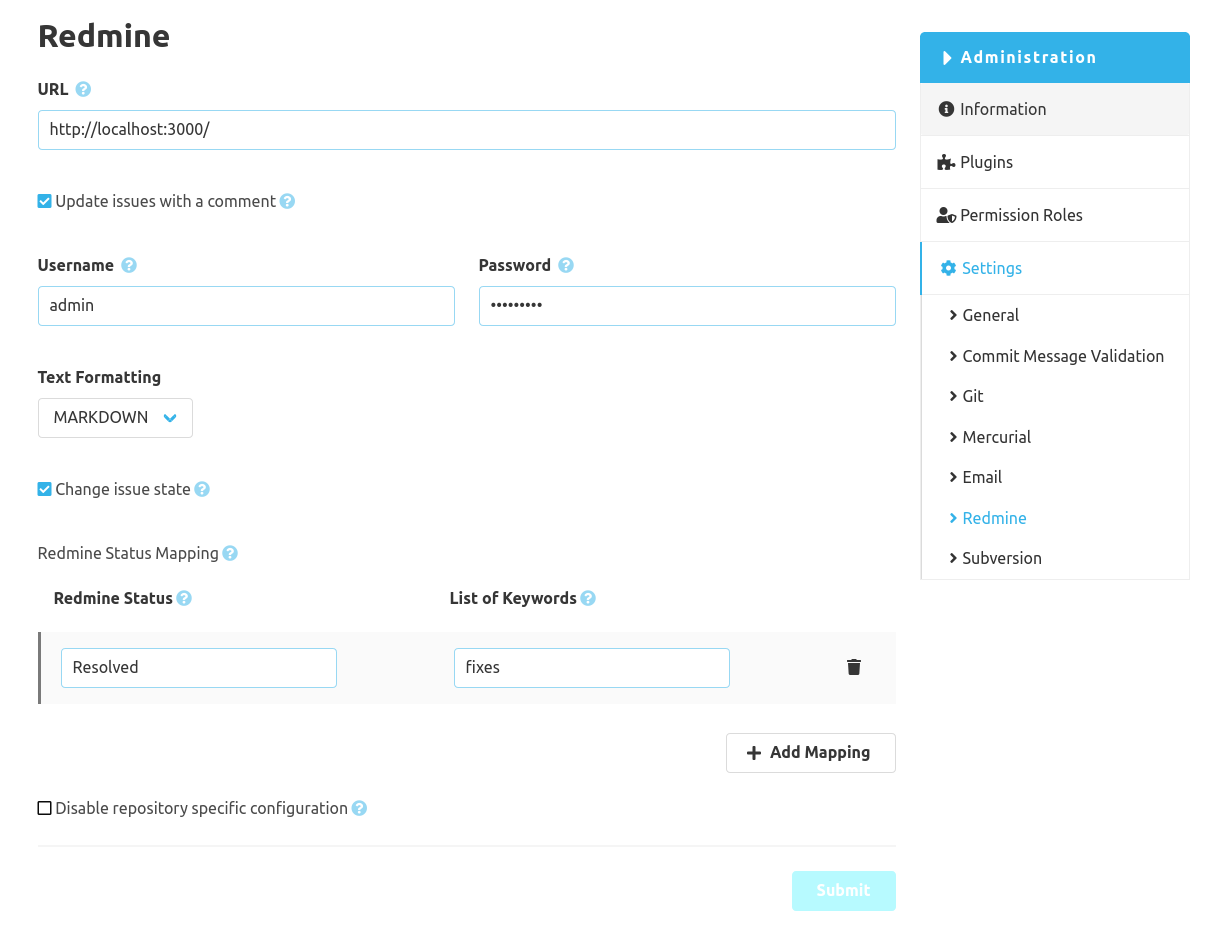
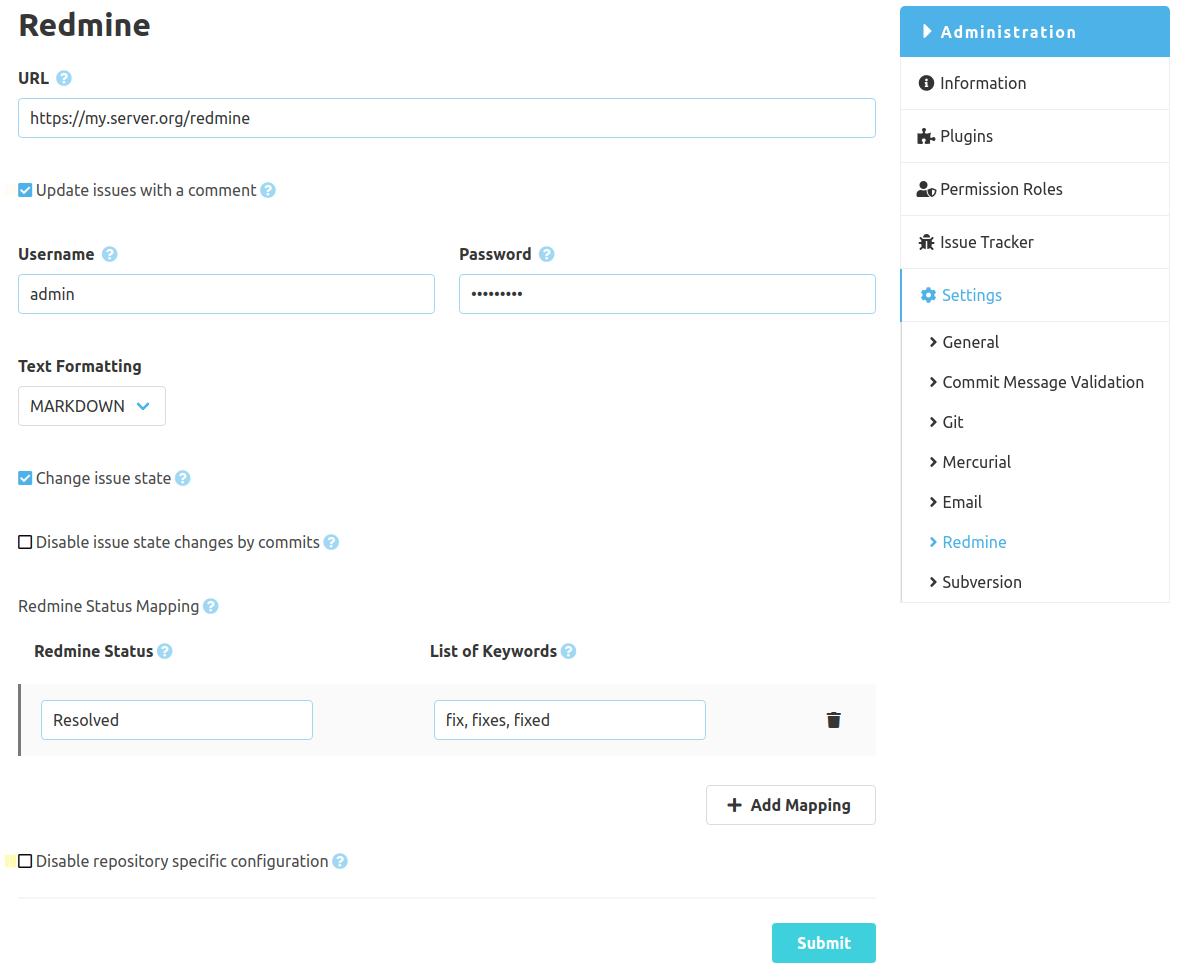
Add option to disable state change by commit (#40)
Adds the option to disable state changes that would be triggered by commits. This option should be used, when the development process uses pull requests, so that the state of issues will not be changed by commits on feature branches but only when a corresponding pull request is merged.

diff --git a/src/main/js/RedmineRepositoryConfigurationForm.tsx b/src/main/js/RedmineRepositoryConfigurationForm.tsx
@@ -72,6 +72,7 @@ class RedmineRepositoryConfigurationForm extends React.Component<Props, RedmineC
             <div className="column is-half">{this.renderInputField("password", "password")}</div>
             <div className="column is-full">{this.renderTextFormattingDropDown()}</div>
             <div className="column is-full">{this.renderCheckbox("autoClose")}</div>
+            <div className="column is-full">{this.renderCheckbox("disableStateChangeByCommit")}</div>
             {this.state.autoClose ? (
               <div className="column is-full">
                 <KeyWordMapping mappings={this.state.keywordMapping} onChange={this.keywordMappingChanged} />

diff --git a/src/main/java/sonia/scm/redmine/config/RedmineGlobalConfiguration.java b/src/main/java/sonia/scm/redmine/config/RedmineGlobalConfiguration.java
@@ -46,7 +46,12 @@ public class RedmineGlobalConfiguration extends RedmineConfiguration {
 
   public RedmineGlobalConfiguration(String url, TextFormatting textFormatting, boolean autoClose, boolean updateIssues,
                                     boolean disableRepositoryConfiguration, String username, String password) {
-    super(url, textFormatting, autoClose, updateIssues, username, password, Collections.emptyMap());
+    this(url, textFormatting, autoClose, updateIssues, disableRepositoryConfiguration, username, password, false);
+  }
+
+  public RedmineGlobalConfiguration(String url, TextFormatting textFormatting, boolean autoClose, boolean updateIssues,
+                                    boolean disableRepositoryConfiguration, String username, String password, boolean disableStateChangeByCommit) {
+    super(url, textFormatting, autoClose, updateIssues, username, password, Collections.emptyMap(), disableStateChangeByCommit);
     this.disableRepositoryConfiguration = disableRepositoryConfiguration;
   }
 

diff --git a/src/main/java/sonia/scm/redmine/RedmineStateChanger.java b/src/main/java/sonia/scm/redmine/RedmineStateChanger.java
@@ -62,6 +62,11 @@ public class RedmineStateChanger implements StateChanger {
       .collect(Collectors.toList());
   }
 
+  @Override
+  public boolean isStateChangeActivatedForCommits() {
+    return !configuration.isDisableStateChangeByCommit();
+  }
+
   private String resolveMapping(String keyWord) {
     for (Map.Entry<String, String> entry : configuration.getKeywordMapping().entrySet()) {
       List<String> values = split().splitToList(entry.getValue());

diff --git a/src/test/java/sonia/scm/redmine/RedmineStateChangerTest.java b/src/test/java/sonia/scm/redmine/RedmineStateChangerTest.java
@@ -113,4 +113,15 @@ class RedmineStateChangerTest {
     verify(apiService).updateIssue(issue);
   }
 
+  @Test
+  void shouldDisableUpdatesByCommits() {
+    configuration.setDisableStateChangeByCommit(true);
+
+    assertThat(stateChanger.isStateChangeActivatedForCommits()).isFalse();
+  }
+
+  @Test
+  void shouldEnableUpdatesByCommitsByDefault() {
+    assertThat(stateChanger.isStateChangeActivatedForCommits()).isTrue();
+  }
 }

diff --git a/src/test/java/sonia/scm/redmine/config/RedmineConfigurationMapperTest.java b/src/test/java/sonia/scm/redmine/config/RedmineConfigurationMapperTest.java
@@ -185,7 +185,8 @@ public class RedmineConfigurationMapperTest {
       false,
       "trillian",
       "secret",
-      Collections.emptyMap()
+      Collections.emptyMap(),
+      false
     );
   }
 
@@ -197,7 +198,8 @@ public class RedmineConfigurationMapperTest {
       "trillian",
       "secret"
       ,
-      Collections.emptyMap()
+      Collections.emptyMap(),
+      false
     );
   }
 

diff --git a/src/main/java/sonia/scm/redmine/config/RedmineConfiguration.java b/src/main/java/sonia/scm/redmine/config/RedmineConfiguration.java
@@ -62,6 +62,7 @@ public class RedmineConfiguration implements Validateable {
   @XmlJavaTypeAdapter(XmlEncryptionAdapter.class)
   private String password;
   private Map<String,String> keywordMapping;
+  private boolean disableStateChangeByCommit;
 
   public boolean isAutoCloseEnabled() {
     return isUpdateIssuesEnabled() && autoClose;

diff --git a/src/main/java/sonia/scm/redmine/config/RedmineConfigurationDto.java b/src/main/java/sonia/scm/redmine/config/RedmineConfigurationDto.java
@@ -46,6 +46,7 @@ public class RedmineConfigurationDto extends HalRepresentation {
   private String username;
   private String password;
   private Map<String,String> keywordMapping;
+  private boolean disableStateChangeByCommit;
 
   @Override
   @SuppressWarnings("squid:S1185") // We want to have this method available in this package

diff --git a/src/main/java/sonia/scm/redmine/update/RedmineV2ConfigMigrationUpdateStep.java b/src/main/java/sonia/scm/redmine/update/RedmineV2ConfigMigrationUpdateStep.java
@@ -72,7 +72,8 @@ public class RedmineV2ConfigMigrationUpdateStep implements UpdateStep {
       properties.getBoolean("redmine.update-issues").orElse(false),
       "",
       "",
-      Collections.emptyMap()
+      Collections.emptyMap(),
+      false
     );
   }
 

diff --git a/docs/de/configuration/index.md b/docs/de/configuration/index.md
@@ -35,4 +35,7 @@ Diese Schlüsselwörter kann man in Form einer kommaseparierten Liste angegeben.
 Zum Beispiel könnte man für den Status "Closed" folgende Schlüsselwörter angeben: "closes, closing".
 Damit würde die Commit Nachricht "Closes Bug #42" ebenfalls das Ticket 42 auf den Status "Closed" setzen.
 
+Wenn Statusübergänge nur aufgrund von Pull Requests und nicht aufgrund von Commits durchgeführt werden soll, kann
+zusätzlich die Option "Deaktiviere Statusänderungen durch Commits" aktiviert werden.
+
 ![Redmine Konfiguration](assets/config.png)

diff --git a/README.md b/README.md
@@ -13,6 +13,10 @@ This plugin integrates Redmine to SCM-Manager.
 
 Find out how this plugin can be used on the [user documentation page](https://scm-manager.org/plugins/scm-redmine-plugin/docs).
 
+## Local development
+When you first start the Redmine server using `docker-compose up`, you have to enable API requests for the server.
+This can be done in Redmine under "Administration" -> "Settings" -> "API" -> "Enable REST web service". 
+
 ## Build and testing
 
 The plugin can be compiled and packaged with the following tasks:

diff --git a/docs/en/configuration/index.md b/docs/en/configuration/index.md
@@ -35,4 +35,7 @@ These keywords can be specified in the form of a comma-separated list.
 For example, for the status "Closed" you could specify the following keywords: "closes, closing".
 The commit message "Closes Bug #42" would then also set the ticket 42 to the status "Closed".
 
+If the status should only be updated due to pull requests and not by commits, the additional option "Disable issue
+state changes by commits" can be selected.
+
 ![Redmine configuration](assets/config.png)
